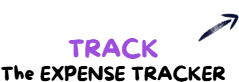
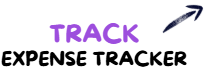
homepage-responsive2

diff --git a/src/pages/HomePage.jsx b/src/pages/HomePage.jsx
@@ -39,18 +39,20 @@ export default function HomePage() {
         <meta name="description" content="Home" />
       </Helmet>
       <div className="h-full w-full pb-[150px] bg-white overflow-auto text-stone-700 rounded-l-xl rounded-r-xl lg:rounded-r-none">
-        <header className="flex flex-col pt-[40px] mob:pt-[45px] tab:pt-[60px] lap:pt-[80px]  justify-center items-center space-y-[3px] mob:space-y-[4px] tab:space-y-[6px] lap:space-y-[10px]">
-          <h2 className="text-[32px] mob:text-[35px] tab:text-[45px] lap:text-[55px] mx-[20px] text-center font-bold text-stone-700">
-            Welcome to{" "}
+        <header className="flex flex-col pt-[40px] mob:pt-[45px] tab:pt-[60px] lap:pt-[80px]  justify-center items-center space-y-3 mob:space-y-[4px] tab:space-y-[6px] lap:space-y-[10px]">
+          <h2 className="text-[32px] text-nowrap mob:text-[35px] tab:text-[45px] lap:text-[55px] mx-[20px] text-center font-bold text-stone-700">
+            Welcome To{" "}
             <span style={{ fontFamily: "fredoka" }} className="uppercase">
               BillBud
             </span>
           </h2>
-          <p className="font-medium text-[12px] mob:text-[12px] tab:text-[13px] lap:text-[14px]  text-center mx-[20px]">
+          <p className=" flex flex-col gap-1 mob:flex-row font-medium text-[14px] mob:text-[14px] tab:text-[13px] lap:text-[14px]  text-center mx-[20px]">
             The{" "}
-            <span className="text-[#9d4edd] font-medium">Expense Tracker</span>,{" "}
-            <span className="text-[#9d4edd] font-medium">Digital Storage</span>,{" "}
-            <span className="text-[#9d4edd] font-medium">Bill Splitter</span> -
+            <span className="text-[#9d4edd] font-medium">Expense Tracker,</span>{" "}
+            <span className="text-[#9d4edd] font-medium">Digital Storage,</span>{" "}
+            <span className="text-[#9d4edd] font-medium">
+              Bill Splitter <span className="mob:inline hidden">-</span>
+            </span>
             ALL IN ONE
           </p>
         </header>
@@ -60,8 +62,8 @@ export default function HomePage() {
         </div>
 
         <div className={`${styles.wrapper}`}>
-          <div className="flex flex-col mt-12 mob:mt-16 smTab:mt-0 px-[40px] smTab:mx-[50px] tab:mx-[100px] lap:mx-[150px] ">
-            <p className="text-center flex flex-col space-y-2 font-medium text-[12px] mob:text-xs tab:text-sm">
+          <div className="flex flex-col mt-12 mob:mt-16 smTab:mt-0 px-[20px] smTab:mx-[50px] tab:mx-[100px] lap:mx-[150px] ">
+            <p className="text-center flex flex-col space-y-2 font-medium text-[14px]  tab:text-sm">
               <p>
                 Managing finances can often be a daunting task, but with{" "}
                 <span
@@ -87,7 +89,7 @@ export default function HomePage() {
               </p>
             </p>
 
-            <menu className="flex flex-col mob:flex-row  mx-auto mt-[60px] sm:mt-[80px] gap-y-4 mob:gap-x-5 justify-between">
+            <menu className="flex flex-col mob:flex-row  mx-auto mt-[80px] sm:mt-[80px] gap-y-4 mob:gap-x-5 justify-between">
               <div className="flex flex-col relative">
                 <div className="rounded-2xl bg-slate-100 w-[90px] tab:w-[110px]  aspect-square mob:p-3 tab:p-4 flex justify-center items-center">
                   <i className="fi fi-ss-vault flex justify-center items-center text-[50px] tab:text-[60px]  text-neutral-600"></i>
@@ -95,7 +97,7 @@ export default function HomePage() {
                 <div className="absolute hidden mob:flex bottom-[10px] mob:bottom-[-10px] scale-110 left-[-10px] mob:left-[-20px] tab:left-[-50px] translate-x-[-100%] mob:translate-x-[-50%] translate-y-[100%]">
                   <img src={vault} className="" alt="" />
                 </div>
-                <div className="absolute flex mob:hidden top-[-5px] scale-[125%] right-[-15px] translate-x-[100%] translate-y-[-100%]">
+                <div className="absolute flex mob:hidden top-[0px] scale-110 right-[-5px] translate-x-[100%] translate-y-[-100%]">
                   <img src={vault2} className="" alt="" />
                 </div>
               </div>
@@ -106,7 +108,7 @@ export default function HomePage() {
                 <div className="absolute mob:flex hidden bottom-[-10px]  mob:left-[-20px] tab:left-[-30px]  translate-y-[100%]">
                   <img src={track} className="" alt="" />
                 </div>
-                <div className="absolute flex mob:hidden top-[20%] scale-110 left-[-20px] translate-x-[-100%] translate-y-[50%]">
+                <div className="absolute flex mob:hidden top-[20%] scale-110 left-[-8px] translate-x-[-100%] translate-y-[50%]">
                   <img src={track2} className="" alt="" />
                 </div>
               </div>
@@ -117,7 +119,7 @@ export default function HomePage() {
                 <div className="absolute hidden mob:flex bottom-[-5px]  mob:right-[-30px] tab:right-[-50px] translate-x-[40%] translate-y-[100%]">
                   <img src={split} className="" alt="" />
                 </div>
-                <div className="absolute flex mob:hidden top-[0%] scale-110 right-[-20px] translate-x-[100%] translate-y-[-50%]">
+                <div className="absolute flex mob:hidden top-[30%] scale-90 right-[-2px] translate-x-[100%] translate-y-[-50%]">
                   <img src={split2} className="" alt="" />
                 </div>
               </div>
@@ -139,7 +141,7 @@ export default function HomePage() {
               />
               <span className="items-center  absolute bottom-[-5px] translate-y-[100%] right-[50%] translate-x-[50%] min-w-[110px] justify-center bg-white rounded-xl px-2  h-fit flex w-fit tab:py-1">
                 {copyStatus ? (
-                  <span className="mob:rounded-md tab:rounded-lg rounded-md px-[4px] mob:px-[6px] tab:px-2 flex items-center py-1">
+                  <span className="mob:rounded-md tab:rounded-lg rounded-md  mob:px-[6px] px-[5px] tab:px-2 flex items-center mob:py-[1px] tab:py-1">
                     <span
                       ref={copyRef}
                       className="opacity-[0.1] text-[9px] mob:text-[11px] tab:text-xs font-medium text-green-600 duration-[2500ms]"

diff --git a/src/components/HamburgerMenu.jsx b/src/components/HamburgerMenu.jsx
@@ -10,6 +10,18 @@ import { Link } from "react-router-dom";
 import { useNavigate } from "react-router-dom";
 import logIn from "../assets/logIn.png";
 import logOut from "../assets/logOut.png";
+import billoutline from "../assets/sideNavImages/bill-outline.png";
+import billsolid from "../assets/sideNavImages/bill-solid.png";
+import homeoutline from "../assets/sideNavImages/home-outline.png";
+import homesolid from "../assets/sideNavImages/home-solid.png";
+import profileoutline from "../assets/sideNavImages/profile-outline.png";
+import profilesolid from "../assets/sideNavImages/profile-solid.png";
+import splitoutline from "../assets/sideNavImages/split-outline.png";
+import splitsolid from "../assets/sideNavImages/split-solid.png";
+import vaultoutline from "../assets/sideNavImages/vault-outline.png";
+import vaultsolid from "../assets/sideNavImages/vault-solid.png";
+import friendsoutline from "../assets/sideNavImages/friends-outline.png";
+import friendssolid from "../assets/sideNavImages/friends-solid.png";
 
 const Logo = styled.div`
   padding: 10px;
@@ -29,15 +41,16 @@ const pages = [
   {
     name: "Home",
     path: "",
-    iconClass: "fi fi-rr-home",
-    iconClassBold: "fi fi-ss-home",
+    iconClass: homeoutline,
+    iconClassBold: homesolid,
     children: [],
   },
   {
-    name: "BillVault",
+    name: "Vault",
     path: "vault",
-    iconClass: "fi fi-rs-vault",
-    iconClassBold: "fi fi-ss-vault",
+    iconClass: vaultoutline,
+    iconClassBold: vaultsolid,
+    hard: true,
     children: [
       {
         name: "Bill Upload",
@@ -50,10 +63,11 @@ const pages = [
     ],
   },
   {
-    name: "BillTrack",
+    name: "Track",
     path: "track",
-    iconClass: "fi fi-rr-calculator-bill",
-    iconClassBold: "fi fi-ss-calculator-bill",
+    hard: true,
+    iconClass: billoutline,
+    iconClassBold: billsolid,
     children: [
       {
         name: "Dashboard",
@@ -74,16 +88,31 @@ const pages = [
     ],
   },
   {
-    name: "BillSplit",
+    name: "Split",
     path: "split",
-    iconClass: "fi fi-rs-hexagon-divide",
-    iconClassBold: "fi fi-ss-hexagon-divide",
+    hard: true,
+    iconClass: splitoutline,
+    iconClassBold: splitsolid,
     children: [
       {
         name: "Split Create",
         path: "split/create",
       },
     ],
+  },
+  {
+    name: "Friends",
+    path: "friends",
+    protected: true,
+    iconClass: friendsoutline,
+    iconClassBold: friendssolid,
+  },
+  {
+    name: "Profile",
+    path: "profile",
+    protected: true,
+    iconClass: profileoutline,
+    iconClassBold: profilesolid,
   },
 ];
 
@@ -108,39 +137,41 @@ export default function HamburgerMenu() {
         onClick={backClick}
         className="absolute w-[100vw] z-[100] h-[100vh] top-0 bg-black/30 left-0 "
       ></div>
-      <div className="absolute z-[110] flex flex-col top-0 left-0 bg-white w-[250px] h-screen">
+      <div className="absolute z-[110] flex flex-col top-0 left-0 bg-white w-[200px] h-screen">
         <div className="">
           <Logo>BILLBUD</Logo>
         </div>
         <Tiles>
           {pages.map((page) => {
-            return <PageTile key={page.name} details={{ ...page }} />;
+            if (!page.protected || (page.protected && userDetails)) {
+              return <PageTile key={page.name} details={{ ...page }} />;
+            } else {
+              return null;
+            }
           })}
         </Tiles>
-        <div className="flex flex-grow items-end">
-          <div className="flex flex-grow justify-end flex-col">
-            {userDetails ? (
-              <div className="flex flex-col space-y-4 mb-[20px]  ">
-                <button
-                  onClick={logOutClick}
-                  className="rounded-lg hover:bg-slate-200 flex space-x-6 mx-4  p-2 duration-500"
-                >
-                  <img src={logOut} className=" w-[20px]" alt="" />
-                  <span className="font-medium text-sm">Logout</span>
-                </button>
-              </div>
-            ) : (
-              <div className="flex flex-col space-y-4  mb-[20px] mt-auto">
-                <Link
-                  to={"/auth"}
-                  className="rounded-lg space-x-6 flex mx-4 hover:bg-slate-200 p-2 duration-500"
-                >
-                  <img src={logIn} className=" w-[20px]" alt="" />
-                  <span className="font-medium text-sm">Login</span>
-                </Link>
-              </div>
-            )}
-          </div>
+        <div className="flex flex-grow justify-end flex-col">
+          {userDetails ? (
+            <div className="flex flex-col space-y-4 mb-[10px]  ">
+              <button
+                onClick={logOutClick}
+                className="rounded-lg hover:bg-slate-200 flex space-x-4 mx-3  p-2 duration-500"
+              >
+                <img src={logOut} className=" w-[19px]" alt="" />
+                <span className="font-medium text-xs">Logout</span>
+              </button>
+            </div>
+          ) : (
+            <div className="flex flex-col space-y-4  mb-[10px] mt-auto">
+              <Link
+                to={"/auth"}
+                className="rounded-lg space-x-4 flex mx-3 hover:bg-slate-200 p-2 duration-500"
+              >
+                <img src={logIn} className=" w-[19px]" alt="" />
+                <span className="font-medium text-xs">Login</span>
+              </Link>
+            </div>
+          )}
         </div>
       </div>
     </>

diff --git a/src/components/PageTile.jsx b/src/components/PageTile.jsx
@@ -1,6 +1,8 @@
 import { styling } from "../util/styling";
 import styled from "styled-components";
 import { NavLink, useLocation, Link } from "react-router-dom";
+import { universalActions } from "../store/main";
+import { useDispatch } from "react-redux";
 
 const Main = styled.div`
   background-color: ${styling.navColor};
@@ -30,11 +32,13 @@ export default function PageTile({ details }) {
   const { name, path, iconClass, iconClassBold } = details;
   const location = useLocation();
   const active = setActive(location, name, path);
+  const dispatch = useDispatch();
 
   return (
     <div className="">
       <NavLink
         to={path}
+        onClick={() => dispatch(universalActions.closeMenu())}
         className={({ isActive }) => {
           return isActive ? "active" : undefined;
         }}

diff --git a/src/components/TopNav.jsx b/src/components/TopNav.jsx
@@ -51,7 +51,7 @@ export default function TopNav() {
         className="flex p-2 mr-4 ml-2 rounded-lg lg:hidden hover:bg-slate-200"
       >
         <div>
-          <i className="fi fi-rs-burger-menu flex justify-center items-center text-xl sm:text-2xl"></i>
+          <i className="fi fi-rs-burger-menu flex justify-center items-center text-lg "></i>
         </div>
       </button>
 
